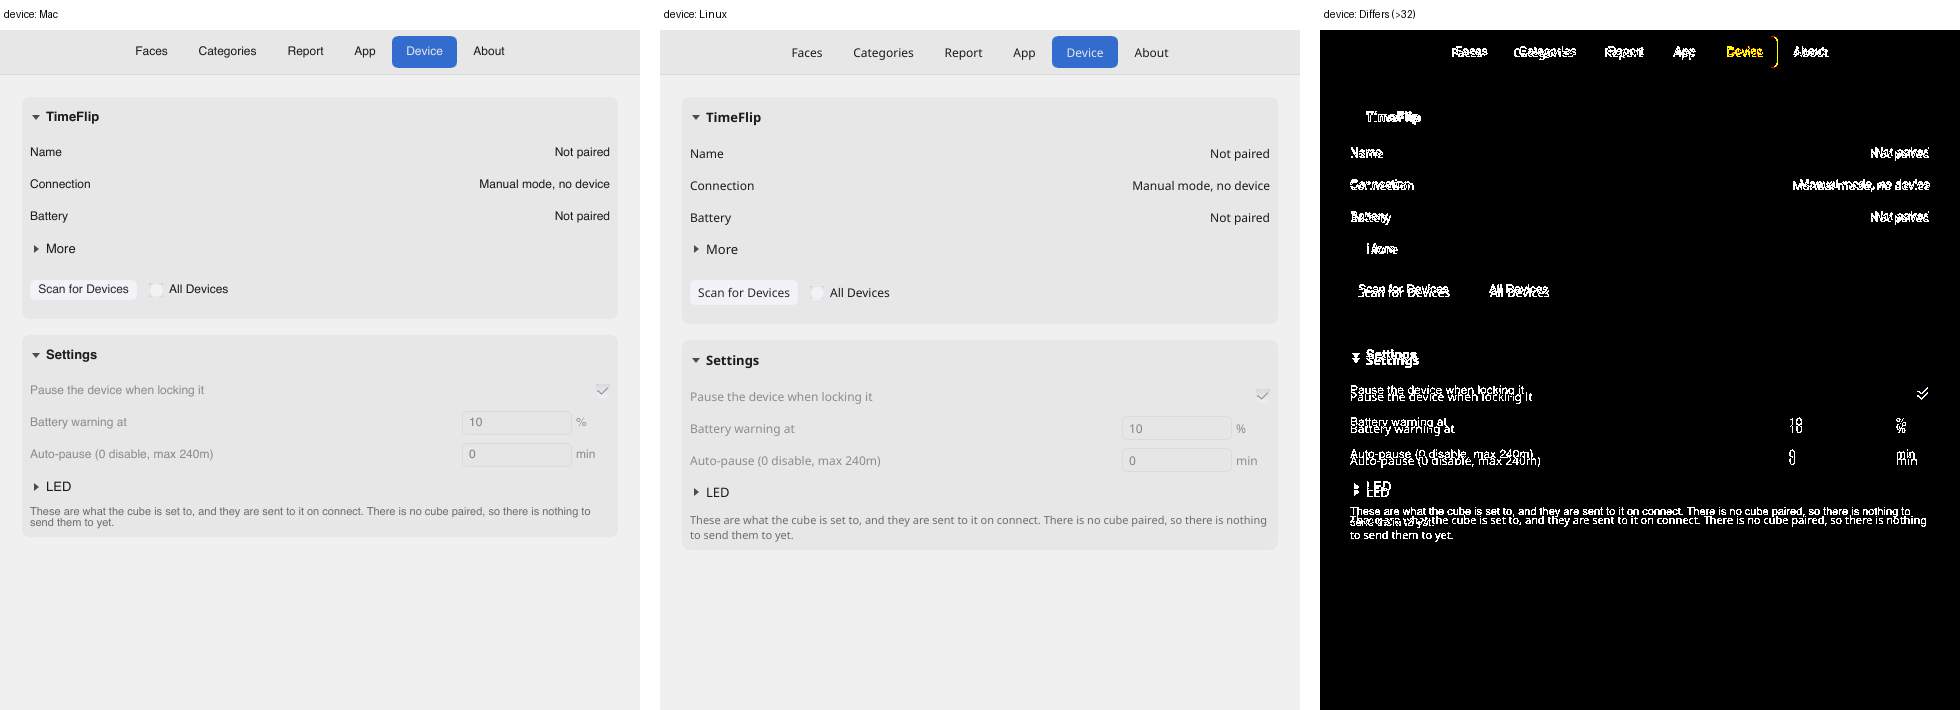
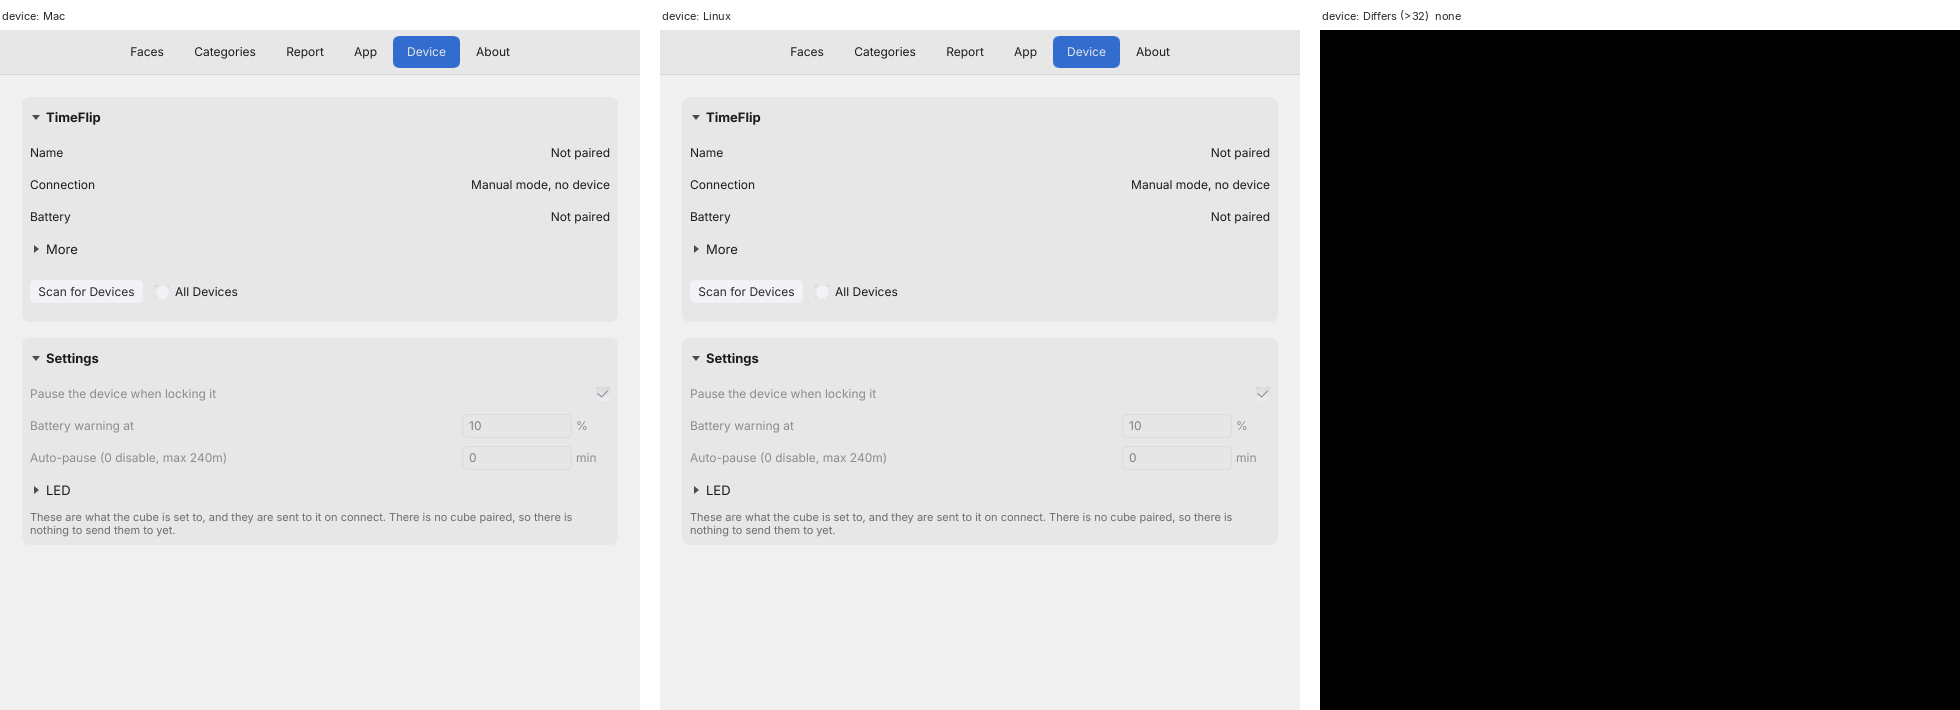
Re-render the Linux tabs with Inter: the two machines now draw byte-identical files
handover-linux 9 asked for a re-render once Inter was packaged, and for the comparison to be rebuilt.
Both done, and the answer is stronger than the item expected.

Inter is not installed on this box. fc-list finds nothing and fc-match Inter falls back to Noto Sans, so
anything Inter-shaped in the render is the copy facet-ui compiles in, not a system font standing in for
it. That also names what the original mismatch was: the Mac drew a Helvetica-style face and this box drew
Noto Sans, which is wider and taller.

With Inter packaged, the Mac and Linux renders are identical:

  pixels differing by any amount   0, on all six tabs
  greatest single-channel delta    0
  MD5 of each PNG                  identical, Mac and Linux
  SHA-256 of decoded RGB buffers   identical

Not one pixel of anti-aliasing separates them, which the comparison was not built to detect: its
threshold of 32 exists to ignore edge noise and there is none to ignore. An arm64 Mac and an x86_64
Linux box produced the same file.

compare/ is rebuilt from the two folders in the format the README describes, three panels per tab with
the third showing pixels over the threshold. Every third panel is now empty and labelled none.

One correction to something I reported mid-run: a landmark check of my own said Report and Categories
still differed by 231px and 28px. That was my edge detector catching rows of explanatory text rather
[…]

diff --git a/docs/settings-tabs/README.md b/docs/settings-tabs/README.md
@@ -13,16 +13,17 @@ Then copy the six files into the folder for the machine you are on.
 
 | | |
 |---|---|
-| [`linux/`](linux/) | Linux Mint 22.3, MATE 1.26.1, X11. Rendered 2026-09-25 at `cf58ebd` |
-| [`mac/`](mac/) | macOS 26.6.2, Apple silicon. Rendered 2026-09-25 at `26b9f40`, **with Inter packaged** |
-| [`compare/`](compare/) | One image per tab: Mac, Linux, and the pixels that differ between them. **Stale**: both halves predate Inter, and it is rebuilt once `linux/` is re-rendered |
+| [`linux/`](linux/) | Linux Mint 22.3, MATE 1.26.1, X11, `x86_64`. Rendered 2026-09-25 at `759684b`, **with Inter packaged** |
+| [`mac/`](mac/) | macOS 26.6.2, Apple silicon, `arm64`. Rendered 2026-09-25 at `26b9f40`, **with Inter packaged** |
+| [`compare/`](compare/) | One image per tab: Mac, Linux, and the pixels that differ between them. Rebuilt 2026-09-25; **every diff panel is empty** |
 
 **These are Slint's software renderer, not screenshots of the running app.** It draws into a buffer with
 no window server involved, so window chrome and compositing are out of the comparison.
 
-**Fonts are not.** The renderer rasterises the glyphs itself but takes the typeface from the system's font
-stack, unless the UI packages its own, which it now does: `facet-ui` compiles Inter into the binary. So a difference between two folders is a difference in layout *or*
-in the font each machine supplied, and `compare/` shows which.
+**Fonts were not, until Inter was packaged.** The renderer rasterises the glyphs itself but took the
+typeface from the system's font stack, which is what the first comparison caught. `facet-ui` now compiles
+Inter into the binary, so both machines draw the same face and a difference between two folders can only
+be a difference in layout.
 
 **What they cannot answer**: how the real window looks. Window chrome is the platform's, so running the
 real app on each is worth doing as well, and it needs somebody at the screen on both.
@@ -32,6 +33,31 @@ the point is a comparison made once, written up in
 [`port-findings.md`](../port-findings.md), and then these stop being load-bearing. **Do not treat a stale
 image here as evidence about a window that has changed since.** The date above is the date the answer is
 about; re-render rather than trusting them if the `.slint` sources have moved on.
+
+## The answer: identical, byte for byte
+
+**Measured 2026-09-25, Mac `26b9f40` against Linux `759684b`, both with Inter packaged.** The two sets are
+not merely alike:
+
+| | |
+|---|---|
+| Pixels differing by any amount | **0**, on all six tabs |
+| Greatest single-channel delta | **0** |
+| MD5 of each PNG | **identical**, Mac and Linux |
+| SHA-256 of the decoded RGB buffers | **identical** |
+
+**Not one pixel of anti-aliasing separates them**, which is a stronger result than the comparison was set
+up to detect: the `compare/` threshold exists to ignore edge noise and there is none to ignore. An
+`arm64` Mac and an `x86_64` Linux box produced the same file.
+
+**What that shows is that the shared UI is genuinely shared.** One set of `.slint` sources, one packaged
+typeface and one software renderer produce the same drawing on both platforms, so requirement 4 in
+[`rust-port.md`](../rust-port.md) is met in fact rather than only structurally. It also means a rendered
+tab can be treated as a reference: a future change that moves the layout on one machine and not the other
+shows up as a non-empty diff panel.
+
+**Two things it still does not cover.** Window chrome, and the real window's font rasterisation, which is
+the platform's rather than the renderer's. Both want the app open on each machine with somebody there.
 
 ## The comparison images
 

diff --git a/docs/port-findings.md b/docs/port-findings.md
@@ -410,6 +410,50 @@ against a locked keychain prompts and can unlock it, so it cannot be used to che
 on. What settled it instead was watching for the `SecurityAgent` process during the read, which needs
 nobody to report what they saw.
 
+## The shared Settings window renders identically on both platforms, once a font is packaged
+
+**Measured 2026-09-25**, Mac `arm64` against Linux `x86_64`, both through Slint's software renderer via
+`cargo run -p facet-ui --example draw-settings-tabs`. Images and method in
+[`settings-tabs/`](settings-tabs/).
+
+**The first comparison did not match, and the difference was entirely the font.** Every horizontal
+measurement agreed to the pixel -- 640 x 680 tabs, the tab rule at y 44, the App panel at x 22 to 618,
+the stepper arrows at x 537-568 on all three rows. What differed was the typeface: the software renderer
+rasterises glyphs itself but **took the family from the host's font stack**, so the Mac drew a
+Helvetica-style face and Linux drew Noto Sans, which is wider and taller. The height difference
+accumulated down each tab and pushed the last panel up to **18px** lower on Linux.
+
+**So the layout was shared and the font was not.** Packaging one fixed it: `facet-ui` compiles Inter 4.1
+into the binary as four static weights, with `default-font-family: "Inter"` in `settings.slint`.
+
+**After that the two sets are byte-identical:**
+
+| | |
+|---|---|
+| Pixels differing by any amount | **0**, on all six tabs |
+| MD5 of each PNG, Mac against Linux | **identical** |
+
+**Not one pixel of anti-aliasing separates them**, which is stronger than the comparison was built to
+detect: its diff threshold exists to ignore edge noise and there was none to ignore. Two different
+instruction sets produced the same file.
+
+**Three things follow:**
+
+- **Requirement 4 is met in fact rather than structurally.** One set of `.slint` sources compiled into
+  two composition roots really does draw the same window, which is the claim the choice of Rust and Slint
+  rested on and had not been checked.
+- **A UI toolkit that draws its own widgets still does not draw its own text.** Slint's software renderer
+  is deterministic across architectures, and the one thing it delegated was the one thing that differed.
+  **Anything wanting identical output has to package its typeface**, and this is the measurement that
+  says so rather than an assumption about fonts.
+- **A rendered tab is now usable as a reference.** A change that moves the layout on one machine and not
+  the other shows up as a non-empty diff panel, which is a cheap check nobody had before.
+
+**What it does not cover**, and neither is a small caveat: **window chrome**, which is the platform's,
+and **the real window's font rasterisation**, which is fontconfig against Core Text rather than the
+software renderer. Both need the app open on each machine with somebody at the screen. The packaged font
+removes the *family* as a variable there too, but not the rasteriser.
+
 ## Design rules that follow from all of the above
 
 Short list, all of them enforceable from the first commit.
